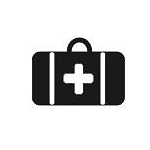
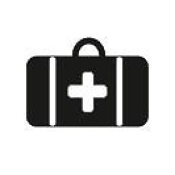
cleaned up code and pics

Changed region(s): [[0.1333, 0.1867, 0.8533, 0.7467]]

diff --git a/public/assets/css/styles.css b/public/assets/css/styles.css
@@ -9,6 +9,8 @@ body {
     margin-right: auto;
 }
 
+/* MARGINS */
+
 .vertical-center {
     margin: 0;
     position: absolute;
@@ -22,25 +24,20 @@ body {
     margin: 15px;
 }
 
+.left-middle-margin {
+    width: 50%;
+    margin: 15px;
+}
+
+
 .left-wide-margin {
     width: 66%;
     margin: 15px;
 }
 
-.section-title {
-    position: relative;
-    padding: 0
-}
 
-.icon {
-    background: #fff;
-    height: 175px;
-    width: 175px;
-    margin: 25px;
-    position: fixed
-}
+/* STICK FOOTER*/
 
-/* sticky footer */
 .footer {
     position: fixed;
     left: 0;
@@ -50,20 +47,20 @@ body {
     padding: 0;
 }
 
-/* form.signup,
-form.login {
-  margin-top: 50px;
-} */
+/* HOME PAGE */
 
+.icon {
+    background: #fff;
+    /* height: 175px;
+    width: 175px; */
+    height: auto;
+    width: auto;
+    margin: 25px;
+    position: fixed
 
-/* projects section
-==================================================*/
+}
 
 .portfolio_item {
-    /* position: relative;
-    overflow: hidden;
-    display: block;
-    margin-bottom: 30px; */
     position: relative;
     overflow: hidden;
     display: block;
@@ -82,7 +79,7 @@ form.login {
     width: 100%; */
     height: 175px;
     width: 175px;
-    background-color: #425BB5;
+    background-color: #4285F4;
     -webkit-transform: translateY(100%);
     transform: translateY(100%);
     opacity: 0;
@@ -117,7 +114,7 @@ form.login {
 .portfolio_item .portfolio_item_hover .item_info em {
     font-style: normal;
     display: inline-block;
-    background-color: #425BB5;
+    background-color: #4285F4;
     padding: 5px 20px;
     color: #fff;
     margin-top: 10px;
@@ -143,28 +140,6 @@ form.login {
     transform: translateX(0);
 }
 
-.portfolio .categories-grid .categories ul li {
-    float: left;
-}
 
-.portfolio .categories-grid .categories ul li a {
-    padding: 0 10px;
-    -webkit-transition: all .2s ease-in-out .2s;
-    transition: all .2s ease-in-out .2s;
-}
 
-.portfolio_filter {
-    padding-left: 0;
-    display: inline-block;
-    margin: 0 auto;
-    text-align: center;
-}
 
-.portfolio-padding {
-    padding: 50px 0;
-}
-
-.portfolio-inner {
-    padding-bottom: 0 !important;
-    padding-top: 55px;
-}
